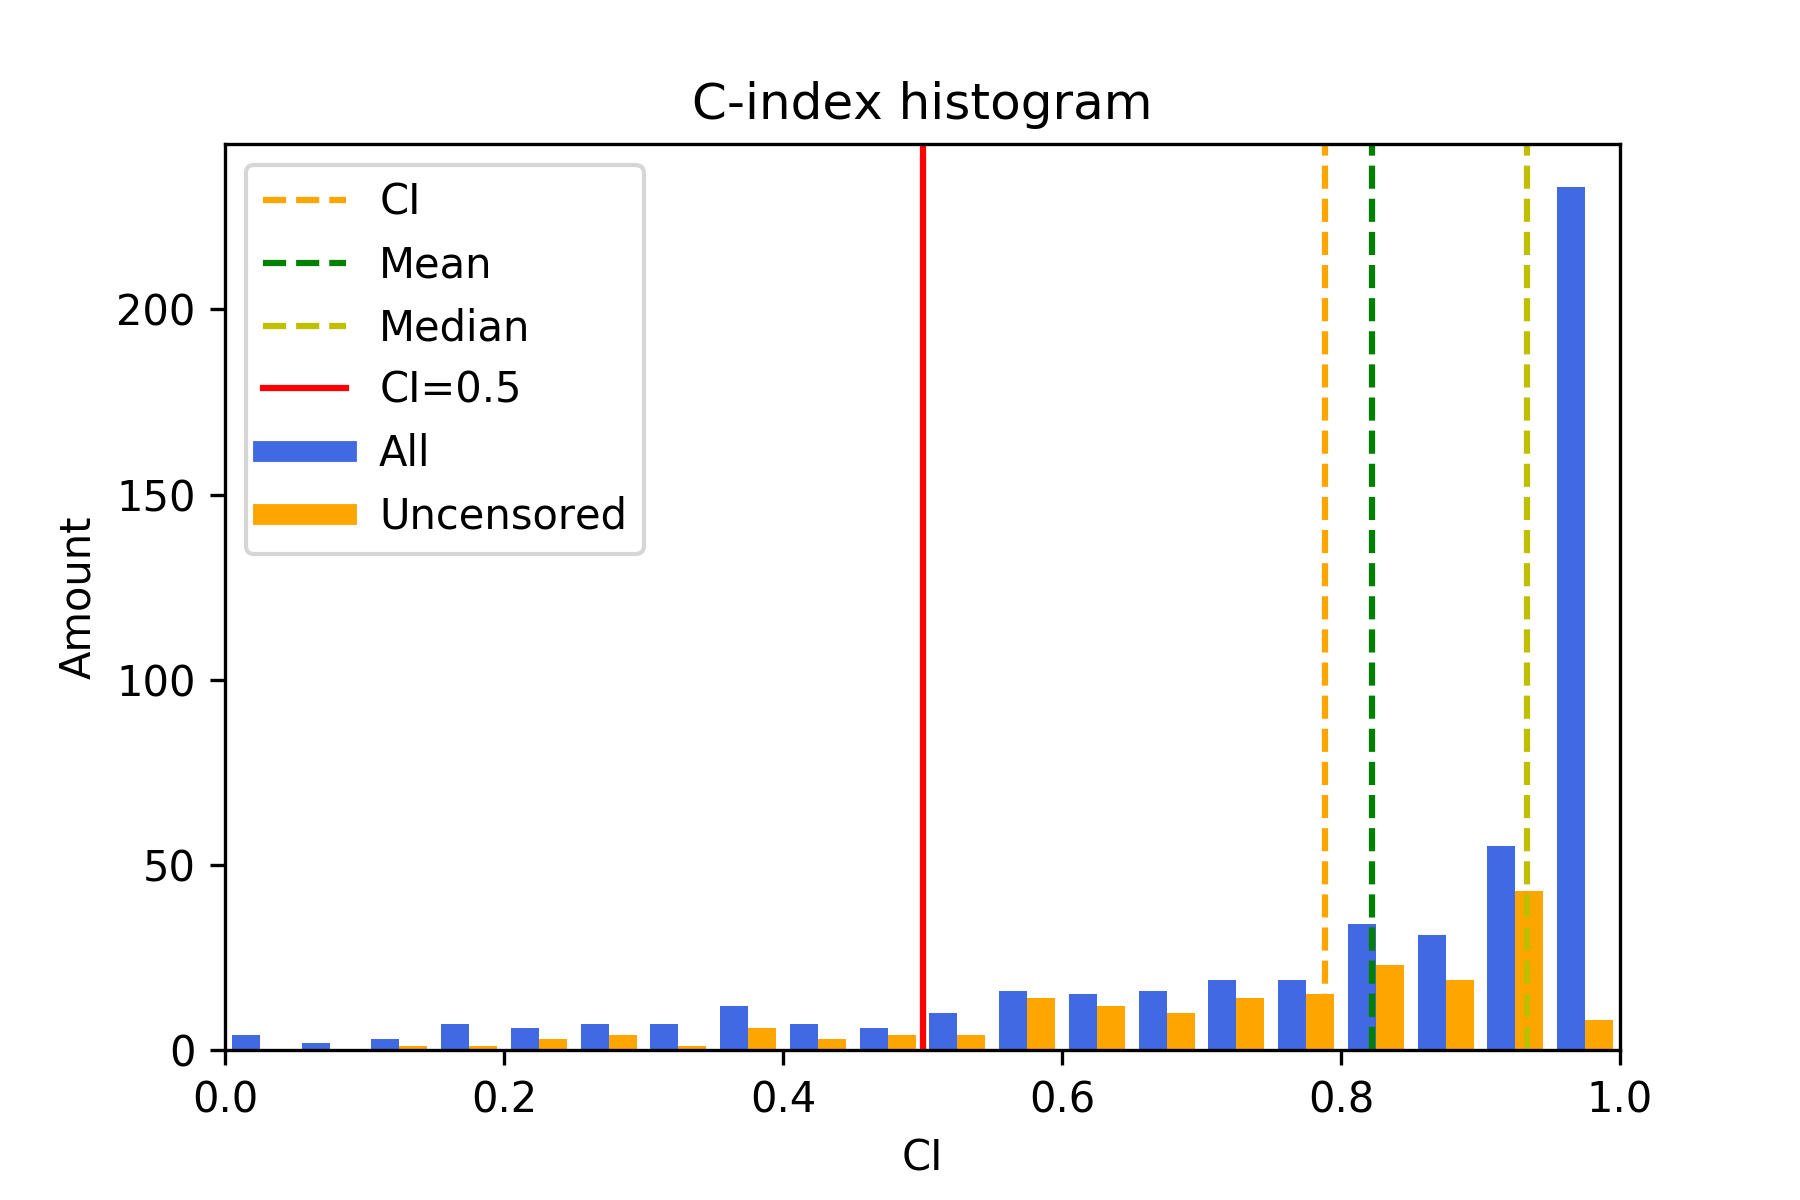
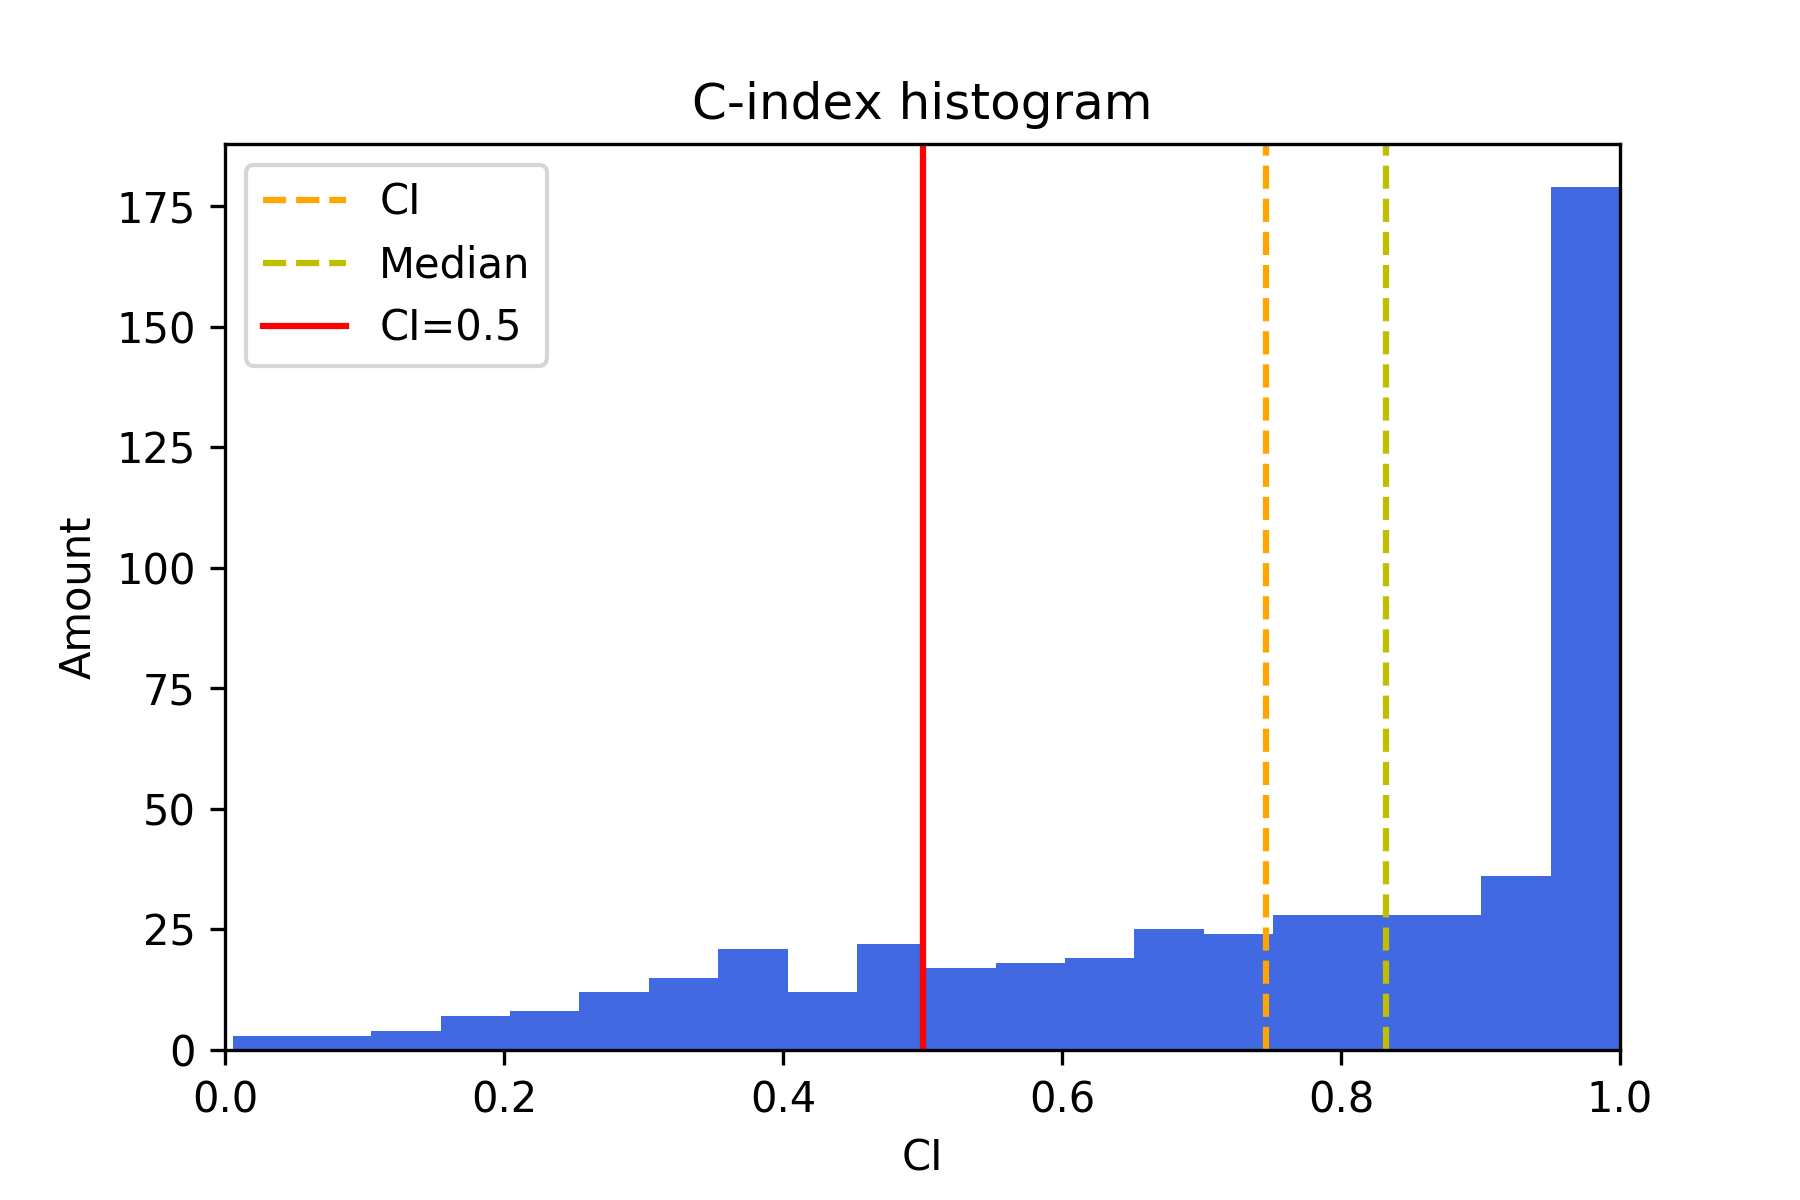
Update graphics

diff --git a/tex_files/003_design.tex b/tex_files/003_design.tex
@@ -251,7 +251,7 @@ including the time to test and obtain the results.
 
 The results with this model have been obtained using both 4-CV and \gls{LOOCV}.
 As seen in \autoref{tab:volume-4CV}, when using 4-CV. The final \gls{CI} with mixed pairs
-is 0.638. Moreover, it's very similar for the the sets of pairs.
+is 0.613 and 0.623 for the test pairs.
 
 \begin{table}
   \centering
@@ -263,32 +263,28 @@ is 0.638. Moreover, it's very similar for the the sets of pairs.
     \textbf{Fold} & \textbf{Mixed} & \textbf{Train} & \textbf{Test} 
     & \textbf{Mixed} & \textbf{Train} & \textbf{Test} \\
     \hhline{=======}
-    0 & 55512 & 82518 & 9254 & 0.65 & 0.625 & 0.673 \\
-    1 & 55176 & 82958 & 9150 & 0.633 & 0.643 & 0.619 \\
-    2 & 54864 & 83416 & 9004 & 0.655 & 0.621 & 0.687 \\
-    3 & 55576 & 82396 & 9312 & 0.615 & 0.661 & 0.568 \\
+    0 & 17.664 & 50.720 & 5.708 & 0,622 & 0,614 & 0,653 \\
+    1 & 17.653 & 51.076 & 5.610 & 0,619 & 0,629 & 0,604 \\
+    2 & 17.653 & 51.303 & 5.539 & 0,609 & 0,607 & 0,671 \\
+    3 & 17.653 & 50.794 & 5.692 & 0,613 & 0,644 & 0,563 \\
     \hhline{=======}
-    \textbf{Total} & 221128 & 331288 & 36720 & 0.638 & 0.638 & 0.636 \\
+    \textbf{Total} & 70,623 & 203,893 & 22,549 & 0.616 & 0.624 & 0.623 \\
     \hline
   \end{tabular}
 
-  \caption{Results for volume only model using 4-CV \label{tab:volume-4CV}}
+  \caption[Results Volume Only Model 4CV]{
+    Results for volume only model using 4-CV \label{tab:volume-4CV}
+  }
 \end{table}
 
 The results obtained with \gls{LOOCV} are shown in \autoref{fig:results-volume-LOOCV}. 
 To train this model one element has been removed from the dataset and the model has 
 been trained with the rest of the elements (all minus one). It shows the \gls{CI} of each
 element when comparing it with the training set, so only the mixed pairs \gls{CI} are shown.
+The final \gls{CI} is 0.616 and the median \gls{CI} is 0.611.
 
-In this case the distribution of the censored data is important because many censored elements
-can create very few pairs (< 100) so they may give a wrong sense of security when looking at
-the \gls{LOOCV}. As it can be seen the 
-distribution for the uncensored data is quite similar from the rest of the dataset. 
-The final \gls{CI} is 0.638 and the mean \gls{CI} is 0.647. A distribution of the number of
-pairs for each element compared against its \gls{CI} can be seen in \autoref{fig:scatter-volume-CI}.
-
-This results are very similar from the ones previously obtained of 0.628 as explained in the
-state-of-the art.
+These results are very similar from the ones previously obtained of 0.628 as explained in 
+\autoref{sec:state-of-the-art} (state-of-the art).
 
 \begin{figure}
   \centering
@@ -297,18 +293,8 @@ state-of-the art.
     Volume only model results using \acrshort{LOOCV} \label{fig:results-volume-LOOCV}
     
     Histogram showing the distribution of all the \acrshort{LOOCV} elements' \acrshort{CI}
-    when using mixed pairs to obtain the \acrshort{CI}. 
-    In blue the distribution of all the \acrshort{LOOCV} elements. In orange only the uncensored
-    elements, which have more pairs to compare with.
+    when using mixed pairs to obtain the \acrshort{CI}.
   }
-\end{figure}
-\begin{figure}
-  \centering
-  \includegraphics[width=.8\textwidth]{images/results/scatter_volume}
-  \caption[CI against pairs scatter plot]{
-    Scatter plot of \acrshort{CI} against number of pairs for volume only model
-    \label{fig:scatter-volume-CI}
-  }.
 \end{figure}
 
 \ssecc{Build shallow siamese network}
@@ -377,10 +363,10 @@ observed that the number of pairs is not constant through all the folds. This is
 censoring, since not all members can form a pair with all the other ones some elements 
 have more available pairs than others. 
 
-From the 4-CV results it can be seen that the final test \gls{CI} is 0.624 and the final mixed 
-\gls{CI} is 0.789. Even thought it seems that the test results are very similar to the
+From the 4-CV results it can be seen that the final test \gls{CI} is 0.635 and the final mixed 
+\gls{CI} is 0.764. Even thought it seems that the test results are very similar to the
 state-of-the art (0.628) when compared to the baseline the test results are similar but
-the mixed pairs results have improved (0.789 vs 0.638).
+the mixed pairs results have improved (0.764 vs 0.616).
 
 The improvement with the baseline is relevant because the final objective of the project
 is to create a model to predict a patient's survival time. The final method to predict
@@ -390,15 +376,10 @@ the new patient's survival time can will be made. This means that the most relev
 indicator is the mixed \gls{CI}.
 
 The results using \gls{LOOCV} can be seen represented in \autoref{fig:results-scalar-LOOCV}. 
-In this case, only the mixed pairs have been compared to create the histogram. As it can be 
-observed, the distribution of uncensored elements compared to the whole set is very different. 
-This is caused because some censored elements have very few pairs to compare with (< 100) and 
-have obtained a good prediction, this pairs can be seen in \autoref{fig:scatter-scalar-CI} in red.
+In this case, only the mixed pairs have been compared to create the histogram.
 
-However, since these elements have very few pairs they do not affect really much the \gls{CI}.
-The final \gls{CI} with \gls{LOOCV} is 0.788 while the mean \gls{CI} is 0.822. This difference
-is explained by the elements with very few pairs. The final \gls{CI} using \gls{LOOCV} is 
-very similar to the one obtained using 4-CV (0.788 vs 0.789).
+The final \gls{CI} with \gls{LOOCV} is 0.746 while the median \gls{CI} is 0.832. The final 
+\gls{CI} using \gls{LOOCV} is very similar to the one obtained using 4-CV (0.746 vs 0.764).
 
 \begin{table}
   \centering
@@ -410,12 +391,12 @@ very similar to the one obtained using 4-CV (0.788 vs 0.789).
     \textbf{Fold} & \textbf{Mixed} & \textbf{Train} & \textbf{Test} & 
     \textbf{Mixed} & \textbf{Train} & \textbf{Test} \\
     \hhline{=======}
-    0 & 55512 & 82518 & 9254 & 0.784 & 0.959 & 0.619 \\
-    1 & 55176 & 82958 & 9150 & 0.798 & 0.96 & 0.637 \\
-    2 & 54864 & 83416 & 9004 & 0.791 & 0.954 & 0.622 \\
-    3 & 55576 & 82396 & 9312 & 0.784 & 0.954 & 0.618 \\
+    0 & 17.664 & 50.720 & 5.708 & 0,758 & 0,9 & 0,638 \\
+    1 & 17.653 & 51.076 & 5.610 & 0,794 & 0,911 & 0,604 \\
+    2 & 17.653 & 51.303 & 5.539 & 0,738 & 0,898 & 0,679 \\
+    3 & 17.653 & 50.794 & 5.692 & 0,767 & 0,898 & 0,618 \\
     \hhline{=======}
-    \textbf{Total} & 221128 & 331288 & 36720 & 0.789 & 0.957 & 0.624\\
+    \textbf{Total} & 70,623 & 203,893 & 22,549 & 0.764 & 0.902 & 0.635 \\
     \hline
   \end{tabular}
 
@@ -432,18 +413,6 @@ very similar to the one obtained using 4-CV (0.788 vs 0.789).
     when using mixed pairs to obtain the \acrshort{CI}. 
     In blue the distribution of all the \acrshort{LOOCV} elements. In orange only the uncensored
     elements, which have more pairs to compare with.
-  }
-\end{figure}
-
-\begin{figure}
-  \centering
-  \includegraphics[width=.8\textwidth]{images/results/scatter_scalar}
-  \caption[CI against pairs scatter plot]{
-    Scatter plot of \acrshort{CI} against number of pairs for scalar only model
-    \label{fig:scatter-scalar-CI}
-
-    In red elements that have less than 100 pairs to compare with, and thus the \acrshort{CI} 
-    can be close to 1.
   }
 \end{figure}
 

diff --git a/tex_files/001_context.tex b/tex_files/001_context.tex
@@ -415,6 +415,7 @@ matrix.
 \end{figure}
 
 \ssecc{State-of-the-art}
+\label{sec:state-of-the-art}
 
 Nowadays, a lot of research is being done in the medical field using deep learning. Image
 classification is one of the first areas in which there's a major contribution to medical analysis.
